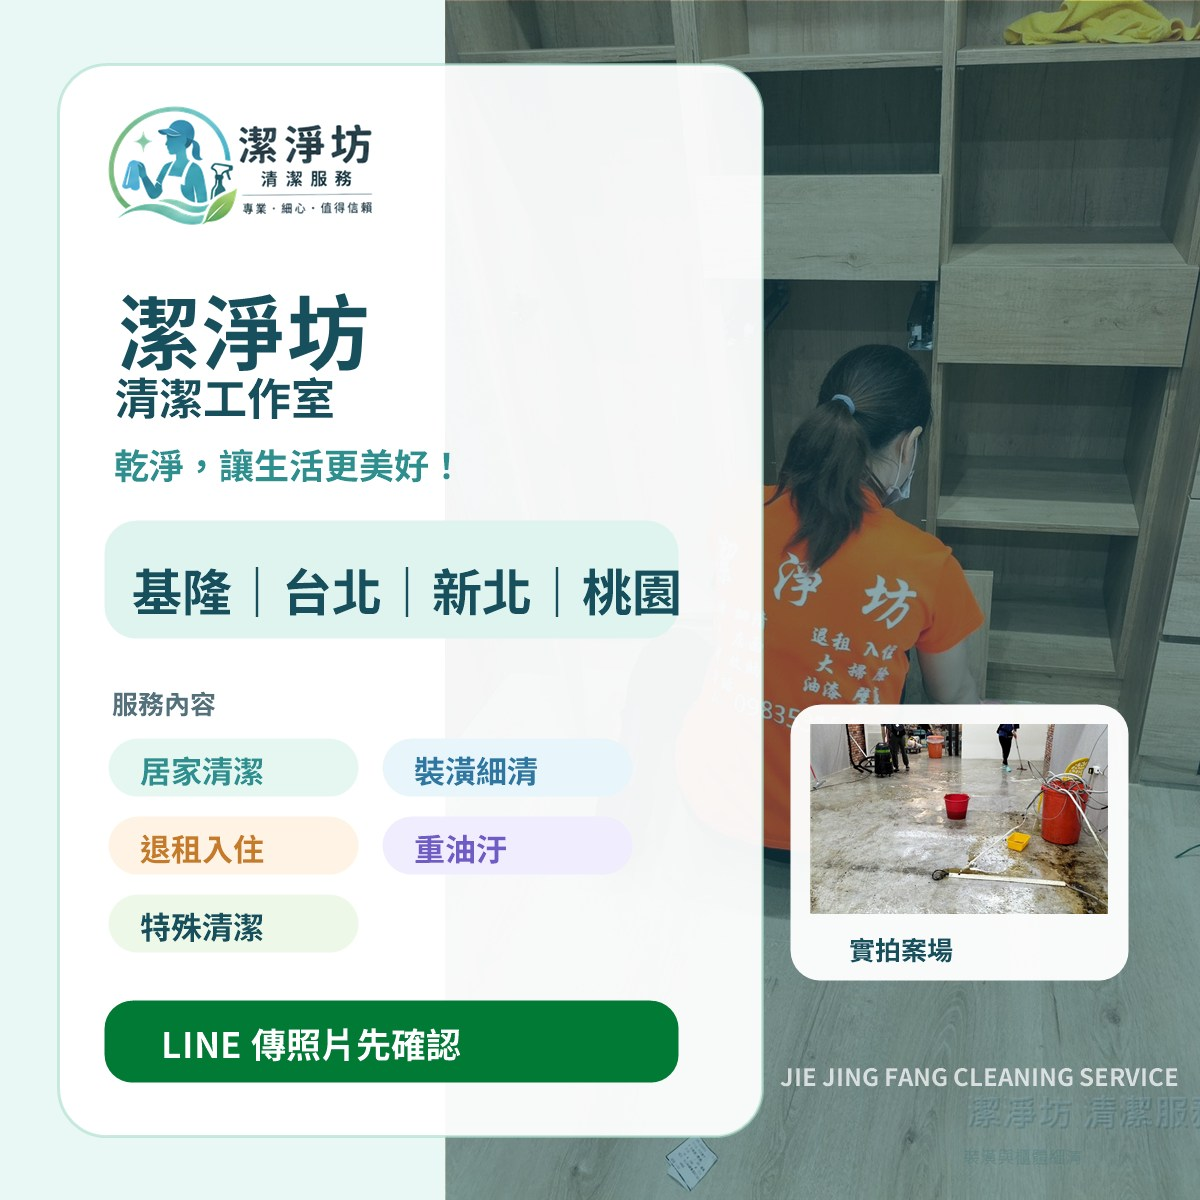
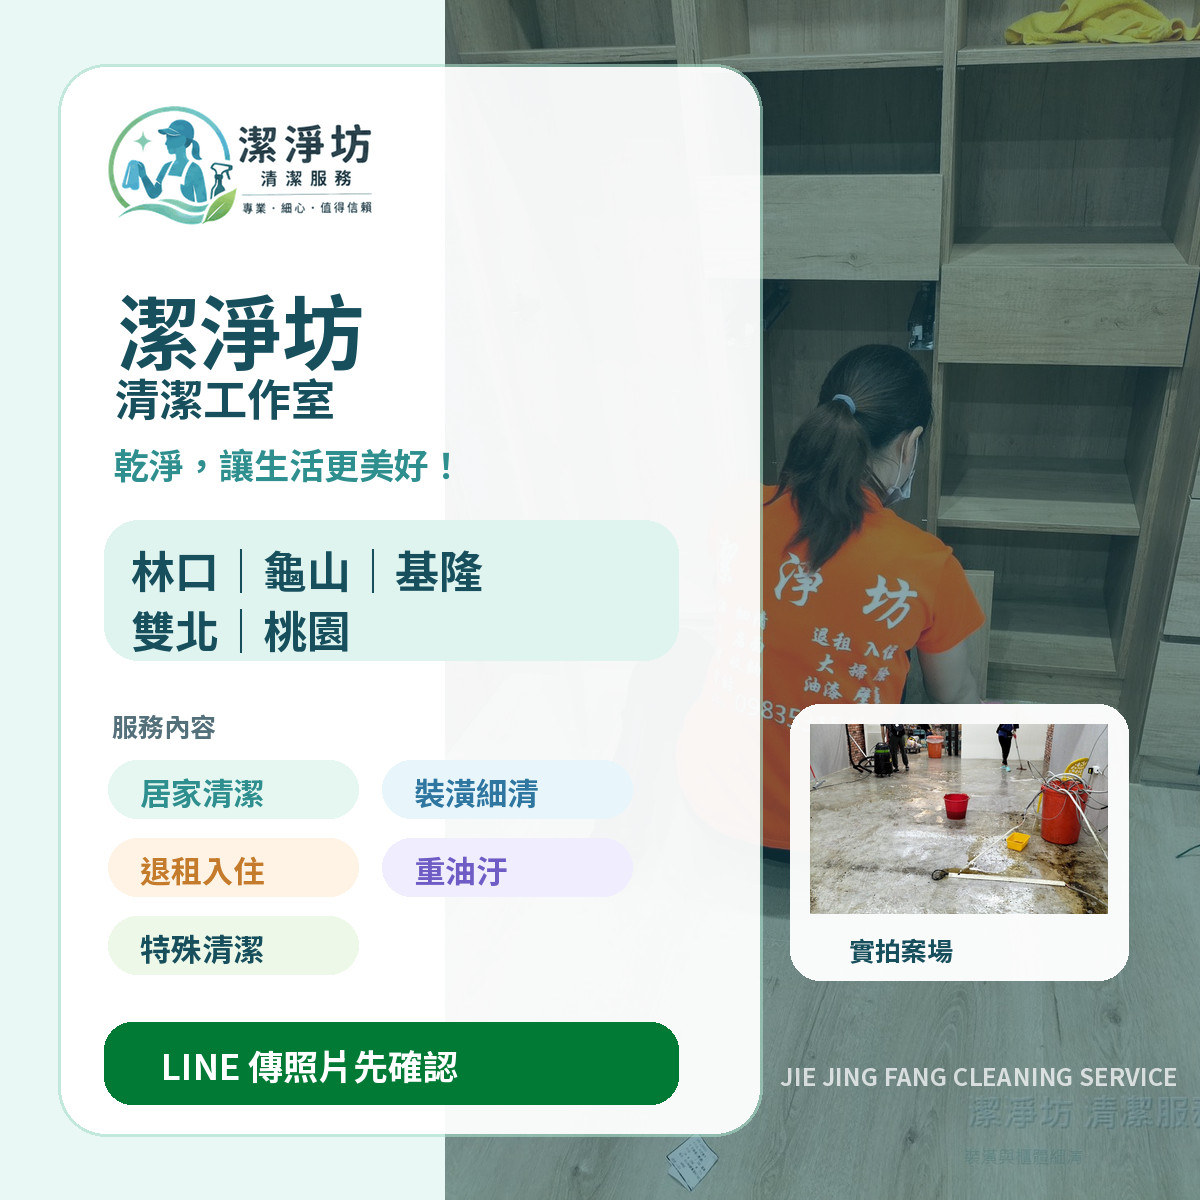
Update OG service areas and add move-out/move-in scenario
業主兩項需求。

OG 服務地區改為「林口・龜山・基隆・雙北・桃園」
- index/cases/share 三頁的 og:title、og:description、description、og:image:alt
  與 share 頁 <title> 全部同步；首頁 JSON-LD 的 areaServed 本來就含林口區與龜山區
- 重產 OG 圖：地區帶由 4 個地區單行 50px 改為 5 個地區兩行 44px（膠囊 118 -> 140），
  以下元素下移 22px。單行塞五個地區會把字級壓到 38px，反而弱化業主最在意的那一行
- 新增 scripts/generate-og.py：PS1 需要 Windows + System.Drawing，沙盒跑不了。
  移植成 Pillow 版，字型取同一個 Noto Sans TC 家族。兩支必須同步改，見 AI-README 陷阱 14

新增「退租入住」需求情境卡
- 退租入住原本只以一個膠囊字出現在「一般清潔」卡片裡，改成首頁具名的情境卡
- 同時把原本的「搬入搬出前後」收斂成純搬家情境：它原本的文案（空屋、租屋交接、
  入住前重整）本來就是退租入住，不收斂會變成兩張卡講同一件事
- 情境卡 5 -> 6 張，原本的 grid 規則是為 5 張調的（820-1179px 第 4、5 張 span 3 排成
  3+2；>=1180px repeat(5) 一列排滿），6 張時末列會落單，兩個斷點都改成 3+3
- 新增 .scenario-handover 色系，用低彩度板岩色收尾，不再加第 6 個彩度

驗證：lint/build exit 0；10 個寬度水平溢出全部 0、每列等寬、末列不落單；
六張卡文字對比 6.61~9.94 全數通過 AA；axe-core 僅剩已知的漸層誤判。
未驗：線上 jjf.tw 與分享卡片（沙盒 proxy 403）、generate-og.ps1 未在 Windows 實跑。

Claude-Session: https://claude.ai/code/session_01UsxiLTEuvUFexbRfr3t35E

diff --git a/index.html b/index.html
@@ -8,14 +8,14 @@
     <meta name="viewport" content="width=device-width, initial-scale=1.0" />
     <meta
       name="description"
-      content="潔淨坊清潔工作室提供居家、裝潢、重點與特殊清潔 LINE 詢問入口，先以照片、區域與需求範圍確認台北、新北、桃園、基隆到府清潔安排。"
+      content="潔淨坊清潔工作室提供居家、裝潢、重點與特殊清潔 LINE 詢問入口，先以照片、區域與需求範圍確認林口、龜山、基隆、雙北、桃園到府清潔安排。"
     />
     <meta property="og:type" content="website" />
     <meta property="og:locale" content="zh_TW" />
-    <meta property="og:title" content="基隆・雙北・桃園｜潔淨坊清潔服務" />
+    <meta property="og:title" content="林口・龜山・基隆・雙北・桃園｜潔淨坊清潔服務" />
     <meta
       property="og:description"
-      content="基隆、台北、新北、桃園可先用 LINE 傳照片，確認清潔範圍、時間與到府安排。"
+      content="林口、龜山、基隆、雙北、桃園可先用 LINE 傳照片，確認清潔範圍、時間與到府安排。"
     />
     <meta property="og:url" content="https://jjf.tw/" />
     <meta property="og:image" content="https://jjf.tw/og-cleaning-area-services-20260910.jpg" />
@@ -23,7 +23,7 @@
     <meta property="og:image:width" content="1200" />
     <meta property="og:image:height" content="1200" />
     <meta property="og:image:type" content="image/jpeg" />
-    <meta property="og:image:alt" content="潔淨坊清潔工作室、基隆台北新北桃園服務地區與居家裝潢退租重油汙特殊清潔內容" />
+    <meta property="og:image:alt" content="潔淨坊清潔工作室、林口龜山基隆雙北桃園服務地區與居家裝潢退租入住重油汙特殊清潔內容" />
     <!-- og:image 是 1200x1200 方圖，summary_large_image 會裁成 1.91:1、切掉上下各約 25%（服務地區與品項文字正好在那裡）。要改回 large 請先備一張 1200x630。 -->
     <meta name="twitter:card" content="summary" />
     <meta name="twitter:image" content="https://jjf.tw/og-cleaning-area-services-20260910.jpg" />

diff --git a/share/index.html b/share/index.html
@@ -12,11 +12,11 @@
     <meta name="viewport" content="width=device-width, initial-scale=1.0" />
     <meta
       name="description"
-      content="基隆、台北、新北、桃園可先用 LINE 傳照片，確認清潔範圍、時間與到府安排。"
+      content="林口、龜山、基隆、雙北、桃園可先用 LINE 傳照片，確認清潔範圍、時間與到府安排。"
     />
     <meta property="og:type" content="website" />
     <meta property="og:locale" content="zh_TW" />
-    <meta property="og:title" content="基隆・雙北・桃園｜潔淨坊清潔服務" />
+    <meta property="og:title" content="林口・龜山・基隆・雙北・桃園｜潔淨坊清潔服務" />
     <meta
       property="og:description"
       content="LINE 傳照片先確認範圍。居家、裝潢、退租入住、重油汙與特殊清潔需求可先詢問。"
@@ -27,11 +27,11 @@
     <meta property="og:image:width" content="1200" />
     <meta property="og:image:height" content="1200" />
     <meta property="og:image:type" content="image/jpeg" />
-    <meta property="og:image:alt" content="潔淨坊清潔工作室、基隆台北新北桃園服務地區與居家裝潢退租重油汙特殊清潔內容" />
+    <meta property="og:image:alt" content="潔淨坊清潔工作室、林口龜山基隆雙北桃園服務地區與居家裝潢退租入住重油汙特殊清潔內容" />
     <meta name="twitter:card" content="summary" />
     <meta name="twitter:image" content="https://jjf.tw/og-cleaning-area-services-20260910.jpg" />
     <meta name="theme-color" content="#2f8f8f" />
-    <title>基隆・雙北・桃園｜潔淨坊清潔服務</title>
+    <title>林口・龜山・基隆・雙北・桃園｜潔淨坊清潔服務</title>
     <script>
       window.setTimeout(function () {
         window.location.replace('/')

diff --git a/src/style.css b/src/style.css
@@ -1109,6 +1109,14 @@ body:has(#areas:target) .nav-areas {
   --scenario-strong: #403979;
 }
 
+/* 2026-09-24 新增「退租入住」情境卡。前 5 個 tone 已用掉青／藍／綠／橘／紫，
+   第 6 個再加彩度會變成彩虹，所以用低彩度板岩色收尾。 */
+.scenario-handover {
+  --scenario-accent: #5f7486;
+  --scenario-tint: #eef2f6;
+  --scenario-strong: #33465a;
+}
+
 .scenario-photo {
   position: absolute;
   inset: 0;
@@ -1119,7 +1127,7 @@ body:has(#areas:target) .nav-areas {
   transition: opacity .24s ease, transform .28s ease;
 }
 
-/* 2026-09-12：這五張原本是 CSS background-image。loading="lazy" 只對 <img>
+/* 2026-09-12：這些原本是 CSS background-image。loading="lazy" 只對 <img>
    有效，所以五張（實測位置在 top 1625–2537px，全部在首屏之下）每次都跟著
    開頁一起載，佔首屏 949 KB。改成真正的 <img> 之後才延後載入。
    視覺與原本等價：圖片在下、白色漸層蓋在上、整層 opacity .34 + saturate(.9)。 */
@@ -3040,11 +3048,6 @@ select {
     min-height: 230px;
   }
 
-  .scenario-card:nth-child(4),
-  .scenario-card:nth-child(5) {
-    grid-column: span 3;
-  }
-
   .case-grid {
     grid-template-columns: minmax(320px, .8fr) minmax(0, 1.2fr);
     align-items: start;
@@ -3237,12 +3240,10 @@ select {
   }
 
   .scenario-grid {
-    grid-template-columns: repeat(5, minmax(0, 1fr));
+    grid-template-columns: repeat(3, minmax(0, 1fr));
   }
 
-  .scenario-card,
-  .scenario-card:nth-child(4),
-  .scenario-card:nth-child(5) {
+  .scenario-card {
     grid-column: span 1;
     min-height: 220px;
     padding: 22px;

diff --git a/cases/index.html b/cases/index.html
@@ -12,10 +12,10 @@
     />
     <meta property="og:type" content="website" />
     <meta property="og:locale" content="zh_TW" />
-    <meta property="og:title" content="基隆・雙北・桃園｜潔淨坊案場相簿" />
+    <meta property="og:title" content="林口・龜山・基隆・雙北・桃園｜潔淨坊案場相簿" />
     <meta
       property="og:description"
-      content="實拍案場相簿，基隆、台北、新北、桃園可先用 LINE 傳照片確認清潔需求。"
+      content="實拍案場相簿，林口、龜山、基隆、雙北、桃園可先用 LINE 傳照片確認清潔需求。"
     />
     <meta property="og:url" content="https://jjf.tw/cases/" />
     <meta property="og:image" content="https://jjf.tw/og-cleaning-area-services-20260910.jpg" />
@@ -23,7 +23,7 @@
     <meta property="og:image:width" content="1200" />
     <meta property="og:image:height" content="1200" />
     <meta property="og:image:type" content="image/jpeg" />
-    <meta property="og:image:alt" content="潔淨坊清潔工作室、基隆台北新北桃園服務地區與居家裝潢退租重油汙特殊清潔內容" />
+    <meta property="og:image:alt" content="潔淨坊清潔工作室、林口龜山基隆雙北桃園服務地區與居家裝潢退租入住重油汙特殊清潔內容" />
     <meta name="twitter:card" content="summary" />
     <meta name="twitter:image" content="https://jjf.tw/og-cleaning-area-services-20260910.jpg" />
     <meta name="theme-color" content="#2f8f8f" />

diff --git a/src/main.jsx b/src/main.jsx
@@ -14,6 +14,7 @@ import {
   Droplets,
   Flame,
   Hammer,
+  KeyRound,
   MapPin,
   PaintRoller,
   Phone,
@@ -121,8 +122,16 @@ const scenarios = [
     image: assetPath('cases/room-after-work-cleaning.jpg'),
   },
   {
+    title: '退租入住',
+    copy: '退租點交前的牆面、地面、衛浴與廚房，或入住前的全室重整，先用照片對齊要清到什麼程度。',
+    icon: KeyRound,
+    tag: '點交前後',
+    tone: 'handover',
+    image: assetPath('cases/general-cleaning/general-cleaning-01.jpg'),
+  },
+  {
     title: '搬入搬出前後',
-    copy: '空屋、租屋交接、入住前重整，可用照片先說明牆面、地面與櫃體狀況。',
+    copy: '家具搬動、空屋清空與搬遷前後的粉塵，先確認物品量與可進出的動線。',
     icon: BedDouble,
     tag: '搬家整理',
     tone: 'move',

diff --git a/scripts/generate-og.py b/scripts/generate-og.py
@@ -1,0 +1,140 @@
+#!/usr/bin/env python3
+"""產生首頁／案例頁／分享頁共用的 OG 圖（1200x1200）。
+
+⚠ 這支與 scripts/generate-og.ps1 是同一張圖的兩個產生器，**必須同步修改**：
+   - generate-og.ps1：Windows／System.Drawing，業主本機用，需要
+     %WINDIR%\\Fonts\\NotoSansTC-VF.ttf。
+   - generate-og.py ：跨平台／Pillow，沙盒與 CI 用，字型從 Google Fonts 取
+     Noto Sans TC（同一個字型家族，所以兩邊輸出的字形一致）。
+   改了文案只改其中一支，下一個人重跑另一支就會把改動蓋掉。見 AI-README 陷阱 14。
+
+用法：
+    python3 scripts/generate-og.py [--font-dir <放 NotoSansTC-700.ttf 的目錄>]
+
+字型取得方式（沙盒內可直接執行）：
+    curl --get --data-urlencode 'family=Noto Sans TC:wght@700' \\
+         --data-urlencode "text=$(cat 需要的字元)" \\
+         https://fonts.googleapis.com/css2 -o css.css
+    # 取出 css 內的 fonts.gstatic.com 連結下載 woff2，再用 fonttools 轉 ttf
+"""
+
+import argparse
+import os
+from PIL import Image, ImageDraw, ImageFont
+
+ROOT = os.path.dirname(os.path.dirname(os.path.abspath(__file__)))
+OUT = os.path.join(ROOT, 'public/og-cleaning-area-services-20260910.jpg')
+PHOTO = os.path.join(ROOT, 'public/cases/site-cleaning-hero.jpg')
+LOGO = os.path.join(ROOT, 'public/brand/logo-horizontal-transparent.png')
+CASE_PHOTO = os.path.join(ROOT, 'public/cases/commercial-kitchen/commercial-kitchen-01.jpg')
+
+# GDI+ 的 DrawString 預設 StringFormat 會在字串左右各補約 em/6 的留白，Pillow 不會。
+# 不補這段，所有文字會比 PS1 的輸出往左偏 0.17 em（82px 字就是 14px）。
+# 這個係數是拿舊圖未改動的元素（品牌字 82px、副標 44px、slogan 35px、浮水印 24px）
+# 逐像素互相關校正出來的：四個字級量到的位移都落在 -0.16 ~ -0.17 em。
+# 垂直方向兩者一致，不需要偏移。
+GDI_SIDE_PADDING = 1 / 6
+
+
+def draw_text(draw, xy, text, font, fill):
+    """比照 GDI+ DrawString 的定位語意。"""
+    x, y = xy
+    draw.text((x + font.size * GDI_SIDE_PADDING, y), text, font=font, fill=fill)
+
+
+def round_rect(draw, box, radius, fill=None, outline=None, width=1):
+    x, y, w, h = box
+    draw.rounded_rectangle([x, y, x + w, y + h], radius=radius,
+                           fill=fill, outline=outline, width=width)
+
+
+def draw_cover(canvas, image, x, y, w, h):
+    """等比裁切填滿，對應 PS1 的 Draw-CoverImage。"""
+    scale = max(w / image.width, h / image.height)
+    sw, sh = int(w / scale), int(h / scale)
+    sx, sy = int((image.width - sw) / 2), int((image.height - sh) / 2)
+    crop = image.crop((sx, sy, sx + sw, sy + sh)).resize((w, h), Image.LANCZOS)
+    canvas.paste(crop, (x, y))
+
+
+def build(font_dir, out_path=OUT):
+    def f(size):
+        return ImageFont.truetype(os.path.join(font_dir, 'NotoSansTC-700.ttf'), size)
+
+    primary, secondary, muted = '#174f5d', '#2f8f8f', '#54707a'
+    white, line_green = '#ffffff', '#017a35'
+    blue, orange, purple = '#2f77a1', '#c57b2c', '#6f5cc5'
+
+    img = Image.new('RGB', (1200, 1200), '#e9f8f5')
+
+    photo = Image.open(PHOTO).convert('RGB')
+    draw_cover(img, photo, 445, 0, 755, 1200)
+    overlay = Image.new('RGBA', (755, 1200), (23, 79, 93, 128))
+    img.paste(Image.alpha_composite(img.crop((445, 0, 1200, 1200)).convert('RGBA'), overlay).convert('RGB'), (445, 0))
+
+    panel = Image.new('RGBA', (1200, 1200), (0, 0, 0, 0))
+    pd = ImageDraw.Draw(panel)
+    round_rect(pd, (58, 64, 704, 1072), 48, fill=(255, 255, 255, 242),
+               outline=(167, 220, 200, 150), width=3)
+    img = Image.alpha_composite(img.convert('RGBA'), panel).convert('RGB')
+    d = ImageDraw.Draw(img)
+
+    logo = Image.open(LOGO).convert('RGBA').resize((270, 134), Image.LANCZOS)
+    img.paste(logo, (104, 96), logo)
+    d = ImageDraw.Draw(img)
+
+    draw_text(d, (104, 268), '潔淨坊', f(82), primary)
+    draw_text(d, (108, 364), '清潔工作室', f(44), primary)
+    draw_text(d, (108, 438), '乾淨，讓生活更美好！', f(35), secondary)
+
+    # 服務地區。2026-09-24 業主要求從「基隆｜台北｜新北｜桃園」改成五個地區，
+    # 並把最常到府的林口、龜山放在第一行。五個地區單行排會把字級從 50px 壓到
+    # 38px，反而弱化業主最在意的這一行，所以改成兩行 44px。
+    area_font = f(44)
+    round_rect(d, (104, 520, 574, 140), 34, fill='#dff3ef')
+    draw_text(d, (124, 536), '林口｜龜山｜基隆', area_font, primary)
+    draw_text(d, (124, 596), '雙北｜桃園', area_font, primary)
+
+    # 地區帶長高 22px，以下元素整體下移 22px
+    draw_text(d, (108, 706), '服務內容', f(26), muted)
+
+    chips = [
+        ('居家清潔', 108, 760, 250, secondary, '#e6f7f2'),
+        ('裝潢細清', 382, 760, 250, blue, '#e8f5fb'),
+        ('退租入住', 108, 838, 250, orange, '#fff3e5'),
+        ('重油汙', 382, 838, 250, purple, '#f0edff'),
+        ('特殊清潔', 108, 916, 250, primary, '#edf8e8'),
+    ]
+    chip_font = f(31)
+    for text, x, y, w, color, bg in chips:
+        round_rect(d, (x, y, w, 58), 29, fill=bg)
+        draw_text(d, (x + 27, y + 9), text, chip_font, color)
+
+    round_rect(d, (104, 1022, 574, 82), 28, fill=line_green)
+    draw_text(d, (155, 1039), 'LINE 傳照片先確認', f(35), white)
+
+    card = Image.new('RGBA', (1200, 1200), (0, 0, 0, 0))
+    cd = ImageDraw.Draw(card)
+    round_rect(cd, (790, 704, 338, 276), 30, fill=(255, 255, 255, 245))
+    img = Image.alpha_composite(img.convert('RGBA'), card).convert('RGB')
+    case = Image.open(CASE_PHOTO).convert('RGB')
+    draw_cover(img, case, 810, 724, 298, 190)
+    d = ImageDraw.Draw(img)
+    draw_text(d, (845, 930), '實拍案場', f(26), primary)
+
+    wm = Image.new('RGBA', (1200, 1200), (0, 0, 0, 0))
+    ImageDraw.Draw(wm).text((776 + 24 * GDI_SIDE_PADDING, 1058),
+                            'JIE JING FANG CLEANING SERVICE',
+                            font=f(24), fill=(255, 255, 255, 185))
+    img = Image.alpha_composite(img.convert('RGBA'), wm).convert('RGB')
+
+    img.save(out_path, 'JPEG', quality=90, subsampling=0)
+    return out_path
+
+
+if __name__ == '__main__':
+    ap = argparse.ArgumentParser()
+    ap.add_argument('--font-dir', default=os.path.join(ROOT, 'scripts'))
+    ap.add_argument('--out', default=OUT)
+    args = ap.parse_args()
+    print(build(args.font_dir, args.out))
